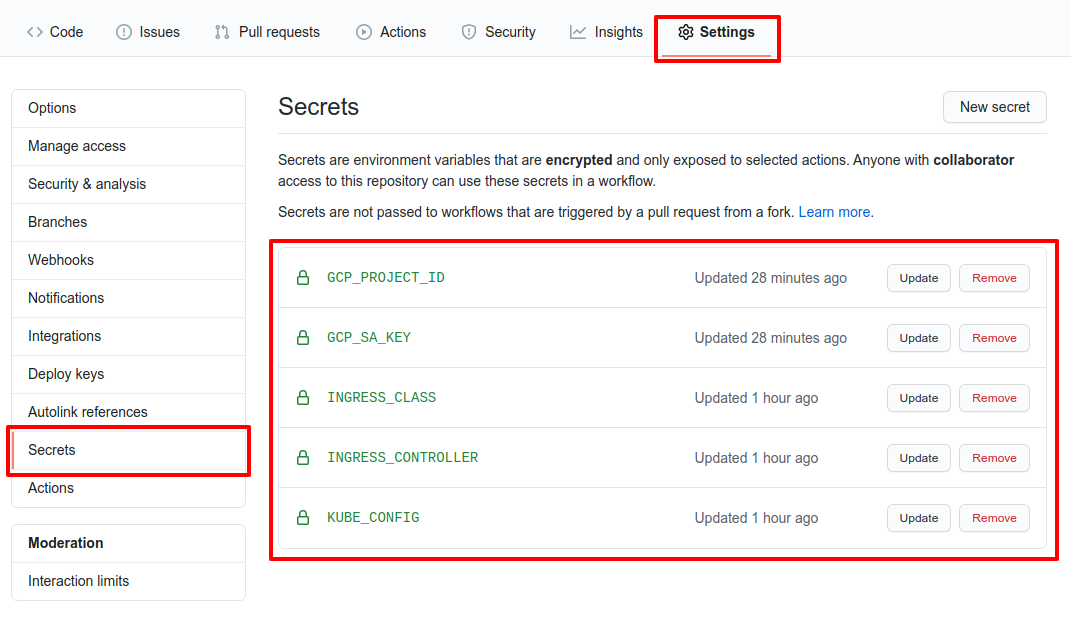
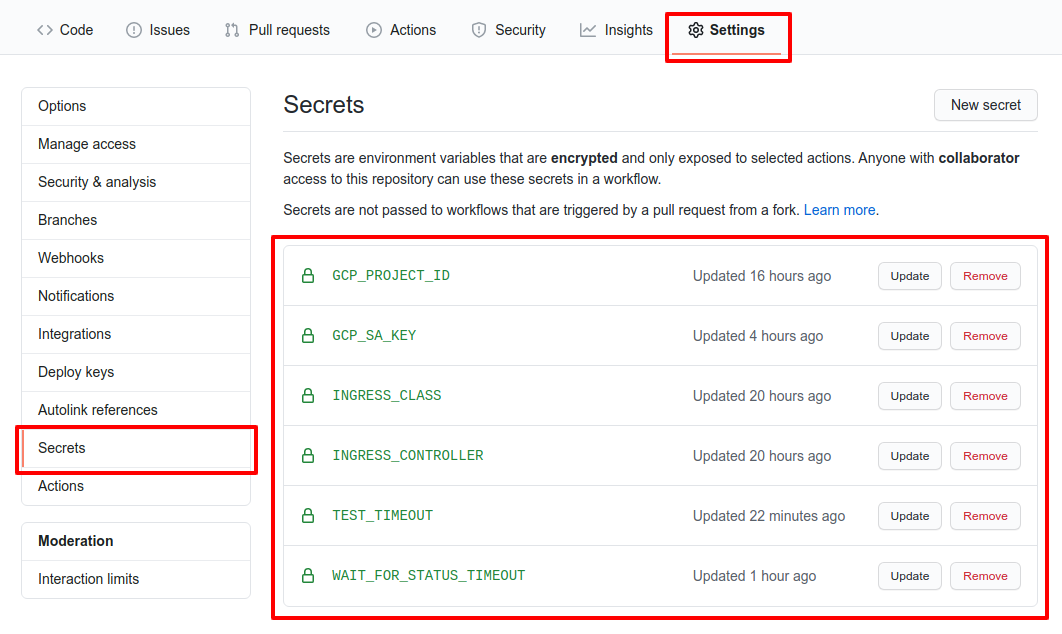
Rename to reflect scenario

diff --git a/README.md b/README.md
@@ -1,15 +1,16 @@
-# ingress-conformance-sample-kubeconfig
+# ingress-conformance-sample-gce
 
 Sample repository to show how to run the conformance suite and generate reports using github pages.
 
-### Website - https://aledbf.github.io/ingress-conformance-sample-kubeconfig/
+### Website - https://aledbf.github.io/ingress-conformance-sample-gce/
 
 ### Github action jobs:
 
+- *Setup gcloud* access
+- *Create a Kubernetes cluster* using `https://get.k8s.io` and kube-up.sh
 - *Prepare environment* downloads [sonobuoy](https://github.com/vmware-tanzu/sonobuoy) binary
 - *Run conformance tests* using `sonobuoy run` and waits until finishes
 - *Generate reports* extracts cucumber json files from `sonobuoy retrieve` output and generates static html files
-
 
 ### How I run the conformance test using a particular ingress controller?
 
@@ -24,3 +25,7 @@ where:
 - **KUBE_CONFIG:** holds a kubeconfig file content
 - **INGRESS_CONTROLLER:** name of the ingress controller (default `N/A`)
 - **CONTROLLER_VERSION:** version of the ingress controller (default `N/A`)
+- **GCP_PROJECT_ID:** ID of the [GCP Project](https://cloud.google.com/resource-manager/docs/creating-managing-projects) where the Kubernetes cluster will be created
+- **GCP_SA_KEY:** [GCP Service account](https://cloud.google.com/iam/docs/service-accounts) with permissions to bootstrap a Kubernetes cluster
+- **TEST_TIMEOUT:** adjust timeout to 2h (default is 20m)
+- **WAIT_FOR_STATUS_TIMEOUT:**  adjust timeout to wait for Ingress status value to 10m (default is 5m)
